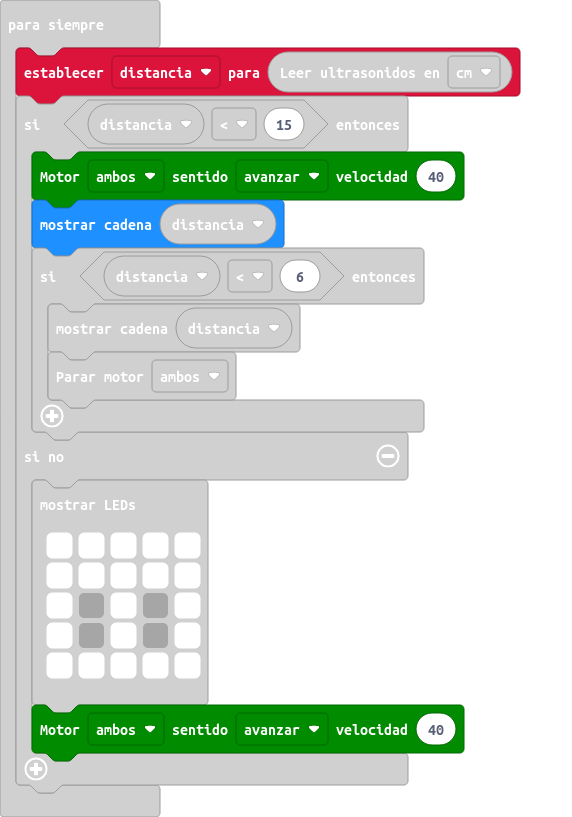
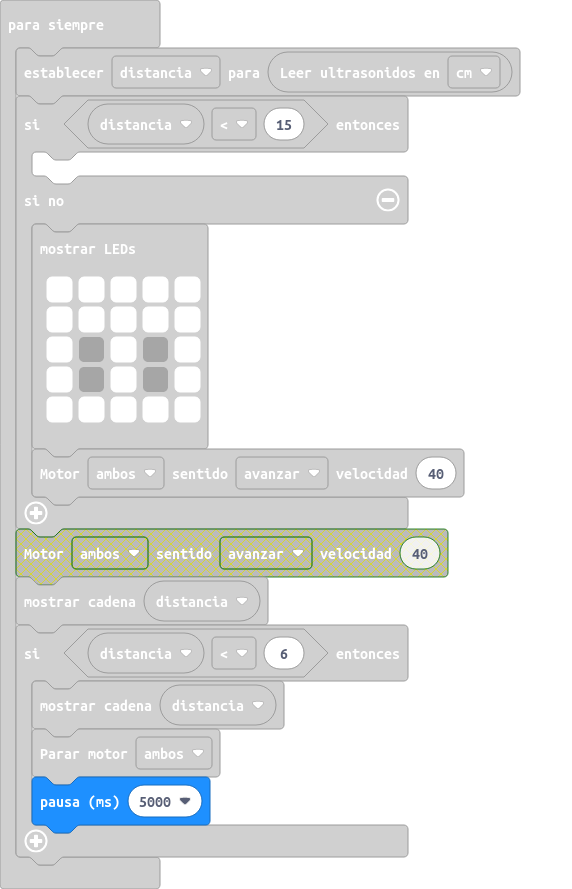
Actualizar main.blocks, main.ts

diff --git a/main.ts b/main.ts
@@ -2,11 +2,11 @@ let distancia = 0
 basic.forever(function () {
     distancia = maqueen.Ultrasonic(PingUnit.Centimeters)
     if (distancia < 15) {
-        maqueen.motorRun(maqueen.Motors.All, maqueen.Dir.CW, 40)
         basic.showString("" + (distancia))
         if (distancia < 6) {
             basic.showString("" + (distancia))
             maqueen.motorStop(maqueen.Motors.All)
+            basic.pause(5000)
         }
     } else {
         basic.showLeds(`
